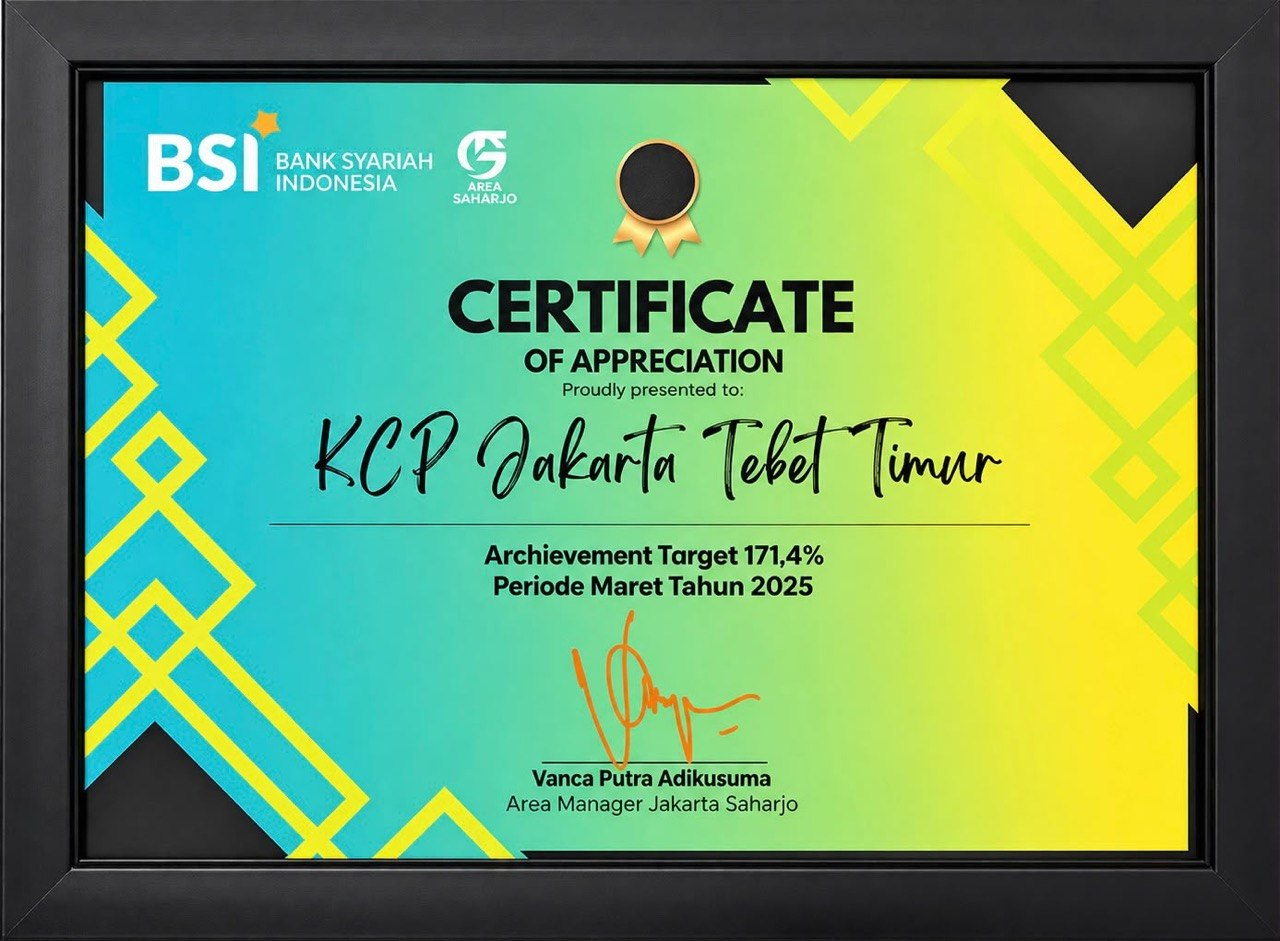
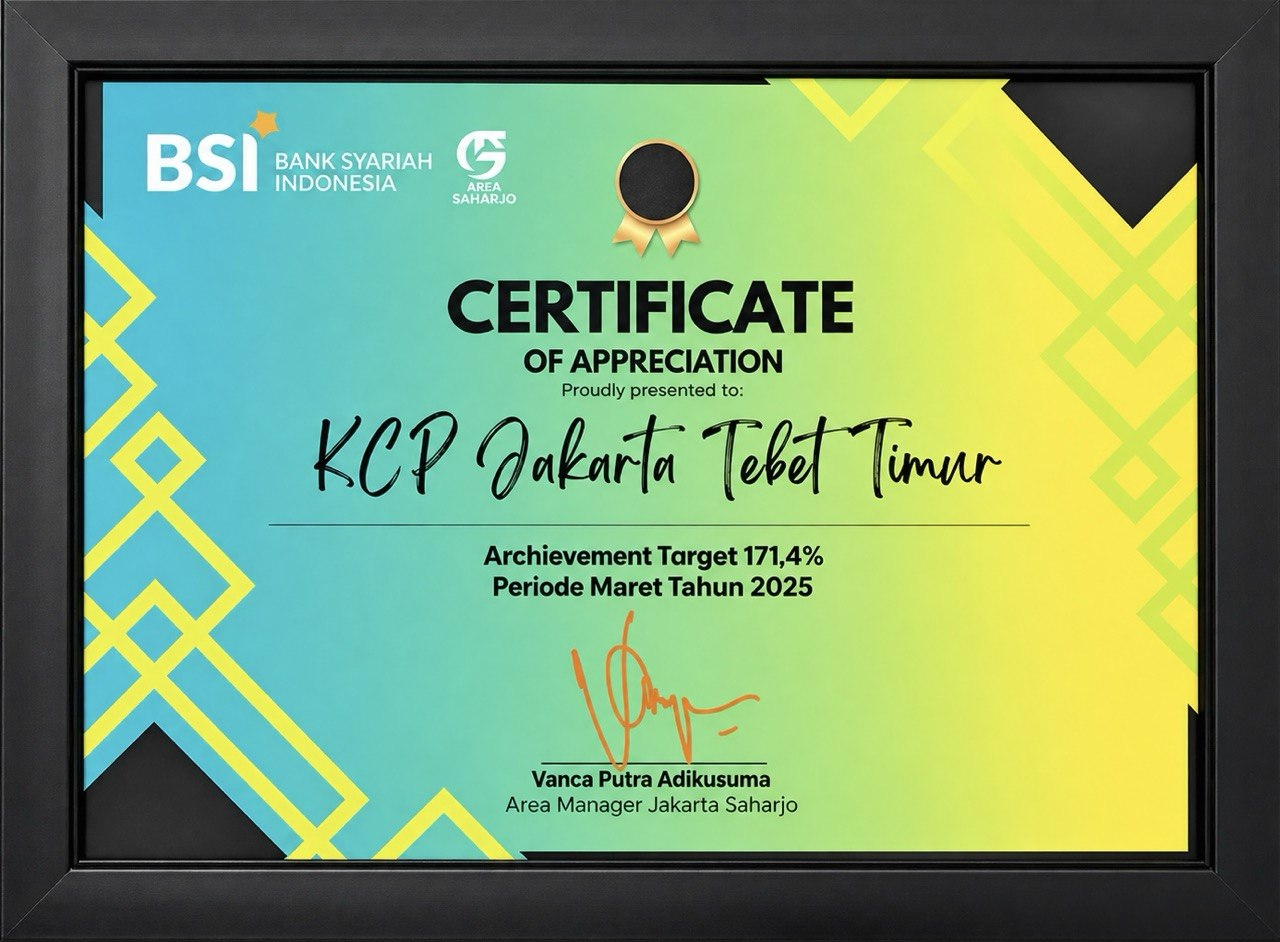
Replace achievement certificate images

diff --git a/index.html b/index.html
@@ -25,7 +25,7 @@
     .contacts a{display:flex;align-items:center;gap:9px}.contact-icon{width:20px;height:20px;display:inline-block;flex:0 0 20px}.card-modal{position:fixed;inset:0;z-index:60;display:grid;place-items:center;padding:24px;background:rgba(8,30,27,.78);opacity:0;pointer-events:none;transition:opacity .25s}.card-modal.open{opacity:1;pointer-events:auto}.card-modal img{display:block;width:900px;max-width:100%;max-height:90vh;object-fit:contain;border-radius:14px;box-shadow:0 24px 80px rgba(0,0,0,.4);transform:scale(.94);transition:transform .25s}.card-modal.open img{transform:scale(1)}.card-modal button{position:absolute;top:20px;right:24px;width:42px;height:42px;border:0;border-radius:50%;background:white;color:var(--dark);font-size:25px;cursor:pointer}.career-dot{width:14px;height:14px;right:-7px;border-width:3px}.career-item.right .career-dot{left:-7px;border-width:2px}
     .contacts a .contact-icon{display:none}.contacts a:before{content:"";width:20px;height:20px;display:inline-block;flex:0 0 20px;background:#fff;-webkit-mask:center/contain no-repeat;mask:center/contain no-repeat}.contacts a:first-child:before{display:none}.contacts a:first-child .contact-icon{display:inline-block;color:#fff}.contacts a:first-child .contact-icon circle{fill:none;stroke:currentColor;stroke-width:1.8}.contacts a:first-child .contact-icon path{fill:none;stroke:currentColor;stroke-width:1.7;stroke-linejoin:round}.contacts a:nth-child(2):before{-webkit-mask-image:url("assets/gmail-outline.svg");mask-image:url("assets/gmail-outline.svg")}
     @media(prefers-reduced-motion:reduce){html{scroll-behavior:auto}.reveal{opacity:1;transform:none;transition:none}}
-    .achievement-gallery{display:grid;grid-template-columns:repeat(3,1fr);gap:18px;margin-top:28px}.certificate{margin:0;overflow:hidden;background:#fff;border:1px solid var(--line);border-radius:18px;box-shadow:0 12px 32px rgba(18,59,54,.08);transition:transform .25s,box-shadow .25s}.certificate:hover{transform:translateY(-5px);box-shadow:0 18px 45px rgba(18,59,54,.14)}.certificate button{display:block;width:100%;padding:0;border:0;background:#101413;cursor:zoom-in}.certificate img{display:block;width:100%;aspect-ratio:4/3;object-fit:contain}.certificate figcaption{padding:18px 20px 20px}.certificate strong{display:block;color:var(--dark);font-size:15px}.certificate span{display:block;margin-top:5px;color:var(--muted);font-size:13px;line-height:1.5}@media(max-width:860px){.achievement-gallery{grid-template-columns:1fr}}
+    .achievement-gallery{display:grid;grid-template-columns:repeat(3,1fr);gap:18px;margin-top:28px}.certificate{margin:0;overflow:hidden;background:#101413;border:1px solid var(--line);border-radius:18px;box-shadow:0 12px 32px rgba(18,59,54,.08);transition:transform .25s,box-shadow .25s}.certificate:hover{transform:translateY(-5px);box-shadow:0 18px 45px rgba(18,59,54,.14)}.certificate button{display:block;width:100%;padding:0;border:0;background:#101413;cursor:zoom-in}.certificate img{display:block;width:100%;height:auto}.certificate figcaption{display:none}@media(max-width:860px){.achievement-gallery{grid-template-columns:1fr}}
   </style>
 </head>
 <body>
